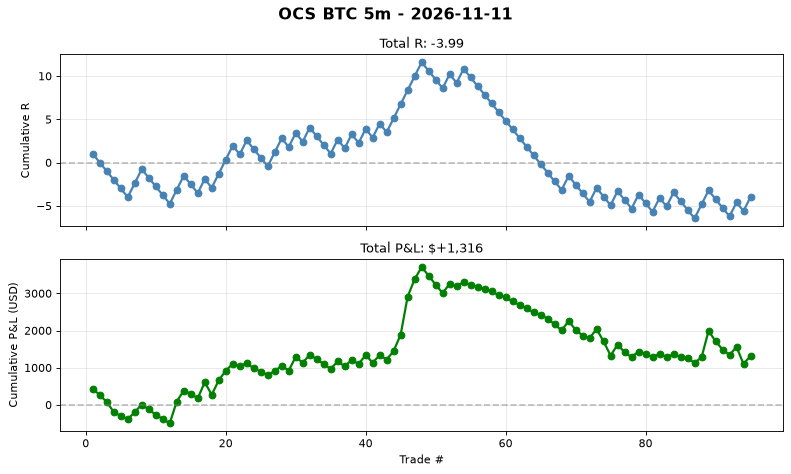
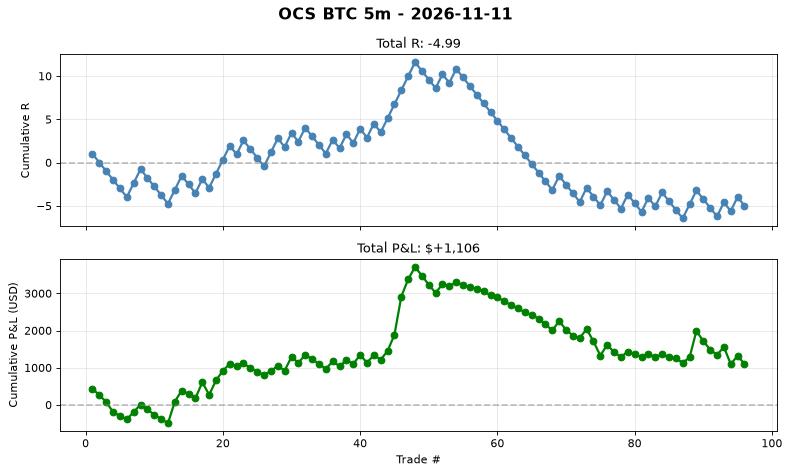
auto(ocs-btc): signal log 2026-11-11T07:40 trades=96

diff --git a/automation/reports/ocs_btc_5m/daily/2026-11-11.md b/automation/reports/ocs_btc_5m/daily/2026-11-11.md
@@ -1,12 +1,12 @@
 # OCS BTC 5m - 2026-11-11
 
 ## Summary
-- **Trades**: 1 (1W / 0L)
-- **Win Rate**: 100.0%
-- **Total R**: +1.62R
-- **Total P&L**: $+217
-- **Avg R**: +1.62R
-- **Profit Factor**: 0.93
+- **Trades**: 2 (1W / 1L)
+- **Win Rate**: 50.0%
+- **Total R**: +0.62R
+- **Total P&L**: $+7
+- **Avg R**: +0.31R
+- **Profit Factor**: 0.92
 
 ## Exit Breakdown
 - T1 (+1.0R): 1
@@ -14,7 +14,7 @@
 - T3 (+2.618R): 0
 - T4 (+3.618R): 0
 - T5 (+5.0R): 0
-- SL (-1.0R): 60
+- SL (-1.0R): 61
 
 ## Best Trade
 - **SHORT** at 73,598 -> T2 73,382
@@ -22,16 +22,16 @@
 - Held for 7 bars
 
 ## Worst Trade
-- **SHORT** at 73,598 -> T2 73,382
-- R = +1.62, P&L = $+217
-- Held for 7 bars
+- **SHORT** at 73,276 -> SL 73,486
+- R = -1.00, P&L = $-210
+- Held for 5 bars
 
 ## Cumulative Stats (Lifetime)
-- Total trades: 95
-- WR: 36.8%
-- Avg R: -0.042
-- Total R: -3.99R
-- Profit Factor: 0.93
+- Total trades: 96
+- WR: 36.5%
+- Avg R: -0.052
+- Total R: -4.99R
+- Profit Factor: 0.92
 
 ## Chart
 See `daily/2026-11-11.png` for cumulative P&L curve.
